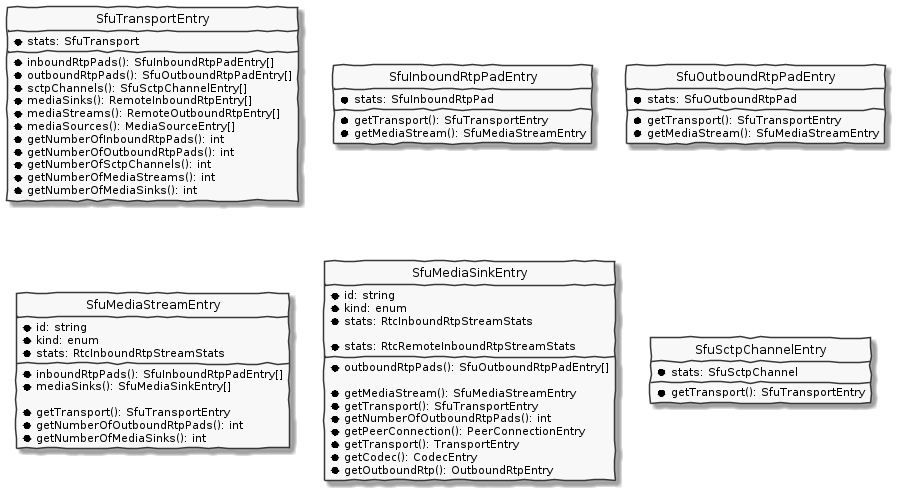
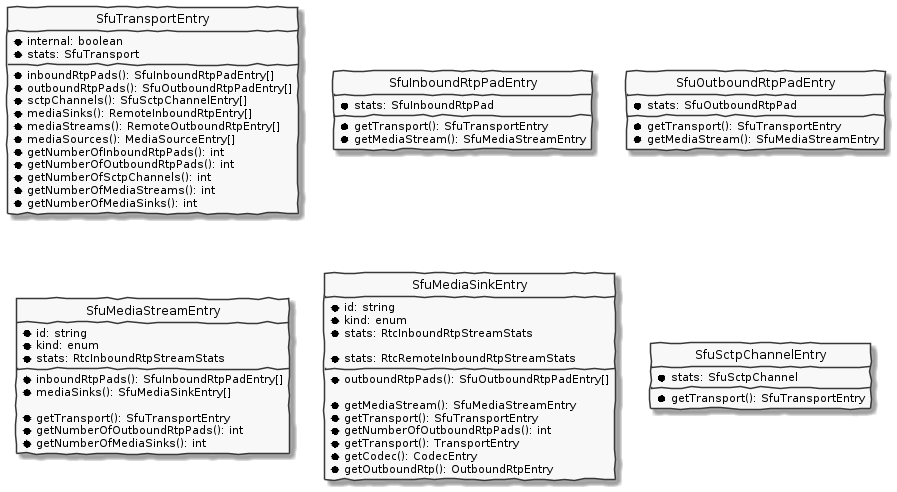
Add internal flag to the SfuTransport

diff --git a/src/entries/StatsStorage.ts b/src/entries/StatsStorage.ts
@@ -186,6 +186,7 @@ export class StatsStorage implements StatsReader, StatsWriter {
             const initialInboundRtpPads = Array.from(this._inboundRtpPads.values()).filter(pad => pad.stats?.transportId === transportId);
             const intialSctpChannels = Array.from(this._sctpChannels.values()).filter(pad => pad.stats?.transportId === transportId);
             const newEntry: InnerSfuTransportEntry = entry = {
+                internal: !!stats.internal,
                 id: transportId,
                 stats,
                 created: now,
@@ -217,7 +218,7 @@ export class StatsStorage implements StatsReader, StatsWriter {
                 },
                 getNumberOfMediaStreams: () => {
                     return newEntry.mediaStreamIds.size;
-                }
+                },
             };
             // need to do it twice because the first hash is hashed without the hash
             newEntry.hashCode = hash(stats);

diff --git a/src/mediasoup/MediasoupCollector.ts b/src/mediasoup/MediasoupCollector.ts
@@ -406,6 +406,7 @@ export class MediasoupCollector implements Collector {
             if (!polledStats) {
                 this._statsWriter?.updateTransport({
                     transportId,
+                    internal: type === "pipe-transport",
                     noReport: true,
                 });
                 continue;
@@ -470,6 +471,7 @@ export class MediasoupCollector implements Collector {
                     const stats = msStats as MediasoupPipeTransport;
                     const { localIp: localAddress, protocol, localPort, remoteIp: remoteAddress, remotePort } = stats.tuple ?? {};
                     transportStats = {
+                        internal: true,
                         transportId,
                         localAddress,
                         localPort,

diff --git a/src/entries/StatsEntryInterfaces.ts b/src/entries/StatsEntryInterfaces.ts
@@ -10,6 +10,7 @@ export interface StatsEntryAbs {
 
 export interface SfuTransportEntry extends StatsEntryAbs {
     stats: SfuTransport;
+    internal: boolean;
     inboundRtpPads(): Generator<SfuInboundRtpPadEntry, void, undefined>;
     outboundRtpPads(): Generator<SfuOutboundRtpPadEntry, void, undefined>;
     sctpChannels(): Generator<SfuSctpChannelEntry, void, undefined>;
